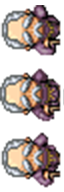
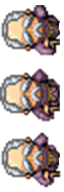
animate old man start coding class

Changed region(s): [[0.9375, 0.4375, 1.0, 0.5938], [0.9062, 0.0938, 0.9688, 0.25], [0.9062, 0.7812, 0.9688, 0.875]]

diff --git a/TeddyNotReady/Game.js b/TeddyNotReady/Game.js
@@ -27,6 +27,53 @@ BasicGame.Game = function (game) {
 
 
 
+
+
+
+// Enemy parent class
+function Enemy(index, game, player, bullets){
+    this.game = game;
+    this.player = player;
+    this.bullet = bullets;
+    this.alive = true;
+    var x = game.rnd.integerInRange(1100, 2900) % 2000;
+    var y = game.rnd.integerInRange(1100, 2900) % 2000;
+    this.health = 0;
+    this.image = null;
+}
+
+Enemy.prototype.damage = function(damage){
+    this.health -= damage;
+    if (this.health <=0){
+        this.alive = false;
+        this.image.kill();
+        return true;
+    }
+    return false;
+};
+
+Enemy.prototype.update = function() {
+    this.image.rotation = this.game.physics.arcade.angleBetween(this.image, this.player);
+    this.game.physics.arcade.velocityFromRotation(this.image.rotation, this.speed, this.image.body.velocity);
+};
+
+function oldMan(){
+    Enemy.call(this);
+}
+
+
+
+
+
+
+
+
+
+
+
+
+
+
 Enemy = function(index, game, player, bullets, health, image, speed, firerate){
     // random spawn locations at least 100 away from player start
     var x = game.rnd.integerInRange(1100, 2900) % 2000;
@@ -41,8 +88,10 @@ Enemy = function(index, game, player, bullets, health, image, speed, firerate){
     this.alive = true;
     this.speed = speed;
     this.image = game.add.sprite(x, y, image);
+    this.image.animations.add('oldmanmoves', [0, 1, 2], 15, true);
+    this.image.animations.play('oldmanmoves');
     enemiesGroup.add(this.image);
-    console.log(enemiesGroup);
+
 
 
     this.image.anchor.set(0.5);
@@ -63,7 +112,7 @@ Enemy.prototype.damage = function(damage){
         return true;
     }
     return false;
-}
+};
 
 Enemy.prototype.update = function() {
     this.image.rotation = this.game.physics.arcade.angleBetween(this.image, this.player);
@@ -79,6 +128,7 @@ var barks;
 var nextFire = 0;
 var fireRate = 400;
 var barkDamage = 1;
+var bones = 0;
 
 var enemies;
 var enemyBullets;
@@ -116,7 +166,7 @@ BasicGame.Game.prototype = {
         enemiesGroup = this.game.add.physicsGroup();
 
         for (var i = 0; i < enemiesTotal; i++) {
-            enemies.push(new Enemy(i, this.game, player, enemyBullets, 3, 'oldman', 100, 100));
+            enemies.push(new Enemy(i, this.game, player, enemyBullets, 1, 'oldman', 50, 100));
 
         }
 
